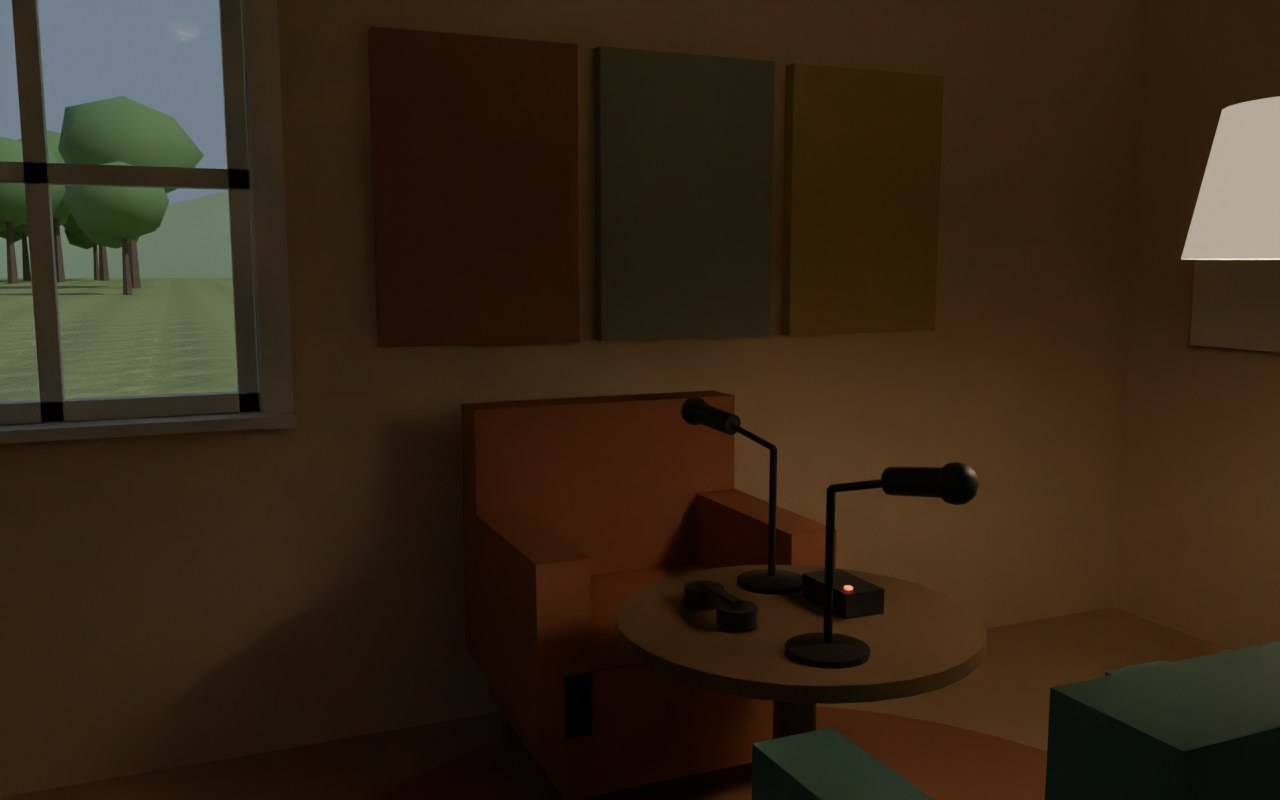
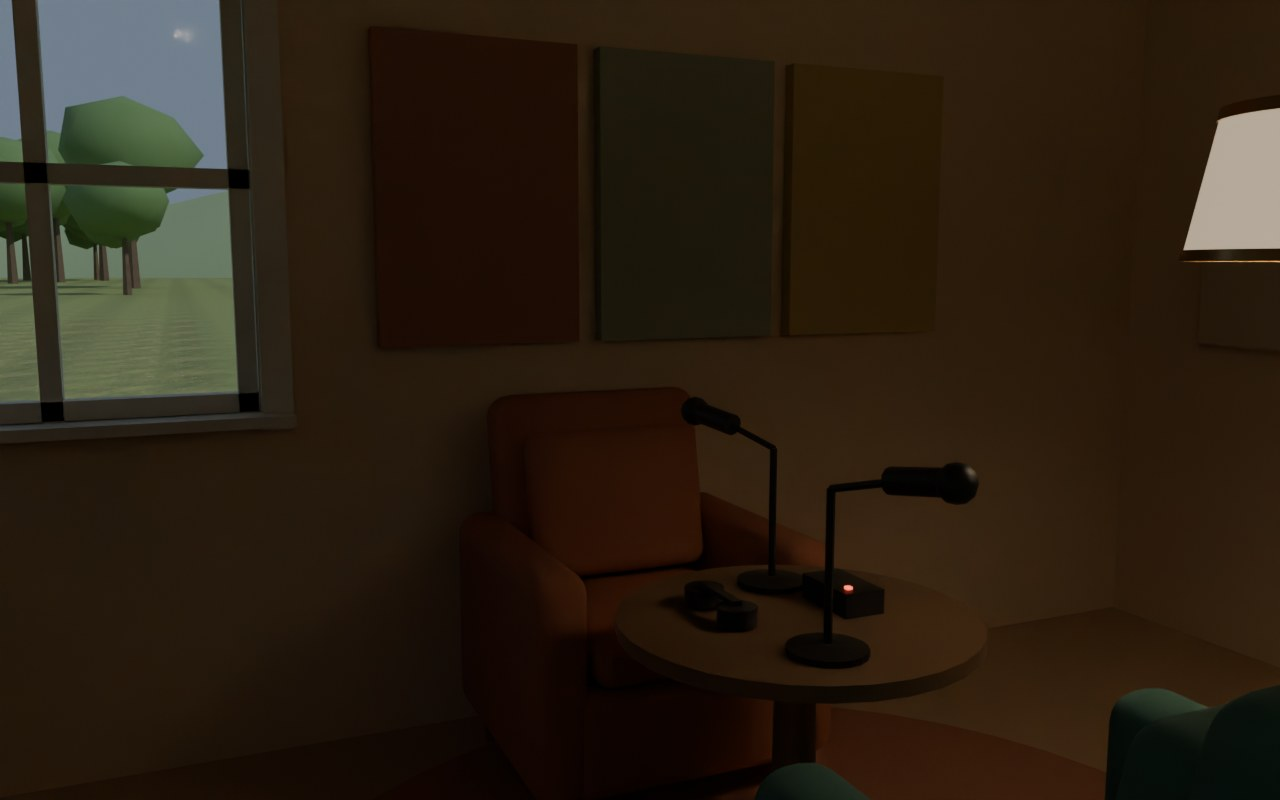
Lost Stories cabin: a khaki tote, a softer shade
The tote's canvas colour was written as if it were sRGB, so the bag came out
nearly white under the lamps; it is a khaki canvas now (linear 0.30, 0.24,
0.155). The drum shade comes down to 10 cd/m2 so its linen keeps some warmth
at the cabin's exposure. The nook and room previews show the new chairs.

Claude-Session: https://claude.ai/code/session_01NnKghbDQGLDn4c56eTq5QB

diff --git a/bl/stories.py b/bl/stories.py
@@ -128,7 +128,7 @@ def setup_materials():
     material('st_onair_e', 'stories_onair', emission=True, emission_strength=0.9)
     material('st_bulb_e', color=(1, 1, 1, 1), emission=(1.0, 0.82, 0.55, 1), emission_strength=4.0)
     material('st_shade_e', color=(0.95, 0.88, 0.75, 1), emission=(1.0, 0.80, 0.55, 1), emission_strength=1.2)
-    material('st_canvas', color=(0.62, 0.53, 0.40, 1), roughness=0.92)                  # the tote on the coat rail
+    material('st_canvas', color=(0.30, 0.24, 0.155, 1), roughness=0.92)                 # the tote on the coat rail (khaki)
     material('st_led_e', color=(1, 0.1, 0.05, 1), emission=(1.0, 0.1, 0.05, 1), emission_strength=6.0)
     material('st_mark', color=(0.2, 0.2, 0.2, 1), roughness=0.9)
 

diff --git a/unreal/WalkTheArchive/Content/Python/wta_setup/emissive.py b/unreal/WalkTheArchive/Content/Python/wta_setup/emissive.py
@@ -40,7 +40,7 @@ BLENDER_NITS = {
     "laylight_e": 2500.0,     # the glazing under the museum's laylights and the Reading Room's
     "oculus_e": 6000.0,       # the sky in the rotunda's oculus
     "bulb_e": 3000.0,
-    "st_shade_e": 14.0,       # the Lost Stories cabin's linen drum shade, lit from inside (before "shade_e": it matches)
+    "st_shade_e": 10.0,       # the Lost Stories cabin's linen drum shade, lit from inside (before "shade_e": it matches)
     "shade_e": 60.0,          # the reading lamps' green cased glass: a faint glow through it
     "shadein_e": 1500.0,      # their warm opal lining, lit by the tube under it
 }
